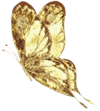
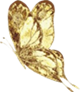
correções das imagens das borboletas e tamanho das imagens gerais

diff --git a/index.html b/index.html
@@ -35,9 +35,6 @@
       <div>
         <ul class="nav justify-content-center p-3">
           <li class="nav-item">
-            <a class="nav-link active" aria-current="page" href="#">Home</a>
-          </li>
-          <li class="nav-item">
             <a class="nav-link" href="#">Lista de Presentes</a>
           </li>
           <li class="nav-item">
@@ -47,7 +44,7 @@
             <a class="nav-link active" href="#">Confirme sua Presença</a>
           </li>
           <li class="nav-item">
-            <a class="nav-link active" href="#">Dress Code</a>
+            <a class="nav-link active" href="#dresscode">Dress Code</a>
           </li>
         </ul>
       </div>
@@ -70,54 +67,52 @@
         </p>
       </section>
 
-      <section class="m-3 mx-auto">
-        <div class="text-center m-3 d-flex flex-column mx-auto">
-          <div class="d-flex flex-row mx-auto">
+      <section>
+        <div
+          class="d-flex justify-content-center align-items-center text-center mb-5"
+        >
+          <h2>SOBRE O CASAL</h2>
+          <div class="ms-3">
             <img src="/assets/images/butterfly2.png" id="bf2" />
           </div>
-          <h2 class="mb-5">SOBRE O CASAL</h2>
-          <p class="mw-50 mx-auto">
-            Tudo começou em 2016, quando Edward e Nicoly se cruzaram por acaso
-            na internet. Em uma página de memes, Edward comentou algo engraçado,
-            e entre tantas reações, a de Nicoly se destacou. Ele a notou, sentiu
-            algo diferente, e não hesitou em enviar uma solicitação de amizade.
-            Ela aceitou, e assim começaram a conversar pelo Facebook, trocando
-            mensagens por seis meses até que, finalmente, marcaram de se
-            encontrar no shopping.<br />
-            <br />Semanas depois dos primeiros encontros, o relacionamento foi
-            oficializado em 04/09/2016. Desde então, eles têm compartilhado
-            muitas histórias, sonhos, planos e desafios. Entre os desafios,
-            estava a distância de 30 km que separava suas casas e as diferenças
-            de personalidade e temperamento. Mesmo assim, a lealdade,
-            cumplicidade e a admiração entre eles sempre prevaleceram.<br />
-            <br />Esses 9 anos juntos foram, sem dúvida, um período de
-            preparação e amadurecimento que Deus estabeleceu aos dois até o dia
-            dessa união, onde continuarão fazendo a boa e perfeita vontade dEle.
-          </p>
         </div>
+        <p class="mw-50 mx-auto">
+          Tudo começou em 2016, quando Edward e Nicoly se cruzaram por acaso na
+          internet. Em uma página de memes, Edward comentou algo engraçado, e
+          entre tantas reações, a de Nicoly se destacou. Ele a notou, sentiu
+          algo diferente, e não hesitou em enviar uma solicitação de amizade.
+          Ela aceitou, e assim começaram a conversar pelo Facebook, trocando
+          mensagens por seis meses até que, finalmente, marcaram de se encontrar
+          no shopping.<br />
+          <br />Semanas depois dos primeiros encontros, o relacionamento foi
+          oficializado em 04/09/2016. Desde então, eles têm compartilhado muitas
+          histórias, sonhos, planos e desafios. Entre os desafios, estava a
+          distância de 30 km que separava suas casas e as diferenças de
+          personalidade e temperamento. Mesmo assim, a lealdade, cumplicidade e
+          a admiração entre eles sempre prevaleceram.<br />
+          <br />Esses 9 anos juntos foram, sem dúvida, um período de preparação
+          e amadurecimento que Deus estabeleceu aos dois até o dia dessa união,
+          onde continuarão fazendo a boa e perfeita vontade dEle.
+        </p>
       </section>
 
       <section class="text-center m-3">
-        <div
-          id="carouselExampleAutoplaying"
-          class="carousel slide"
-          data-bs-ride="carousel"
-        >
+        <div id="carousel" class="carousel slide" data-bs-ride="carousel">
           <div class="carousel-inner">
             <div class="carousel-item active">
-              <img src="/assets/images/c1.jpg" class="img-fluid" alt="..." />
+              <img src="/assets/images/pic1.jpg" class="img-fluid" alt="..." />
             </div>
             <div class="carousel-item">
-              <img src="/assets/images/c2.jpg" class="img-fluid" alt="..." />
+              <img src="/assets/images/pic2.jpg" class="img-fluid" alt="..." />
             </div>
             <div class="carousel-item">
-              <img src="/assets/images/c3.jpg" class="img-fluid" alt="..." />
+              <img src="/assets/images/pic3.jpg" class="img-fluid" alt="..." />
             </div>
           </div>
           <button
             class="carousel-control-prev"
             type="button"
-            data-bs-target="#carouselExampleAutoplaying"
+            data-bs-target="#carousel"
             data-bs-slide="prev"
           >
             <span class="carousel-control-prev-icon" aria-hidden="true"></span>
@@ -126,7 +121,7 @@
           <button
             class="carousel-control-next"
             type="button"
-            data-bs-target="#carouselExampleAutoplaying"
+            data-bs-target="#carousel"
             data-bs-slide="next"
           >
             <span class="carousel-control-next-icon" aria-hidden="true"></span>
@@ -146,31 +141,39 @@
 
       <section class="text-center m-3 mb-5">
         <div>
-          <h2 class="mt-5 mb-5">DRESS CODE</h2>
+          <h2 class="mt-5 mb-5" id="dresscode">DRESS CODE</h2>
         </div>
         <div>
           <p class="mw-50 mx-auto">
-            Queremos que todos se sintam confortáveis e bonitos no nosso
-            grande dia! Para as mulheres, sugerimos:<br> Blusas ou vestidos
-            elegantes. (Vestido/saia no modelo midi) Calça ou shorts de tecido
-            leve e bem cortada, como pantalonas ou alfaiataria para um visual
-            elegante e confortável. Sandálias, sapatos fechados ou sapatilhas
-            são excelentes opções.<br> <b>Opcional</b>: Complemente o look com acessórios
-            que goste e que reflita seu estilo pessoal. <br><br>Homens: Calça social com
-            camisa. Sapatos sociais, sapatênis ou tênis casual. <br><b>Opcional</b>: Se
-            desejar, adicione um blazer para um toque extra de
-            sofisticação, especialmente se o clima permitir. Considere adicionar
-            um cinto que combine e uma gravata.
+            Queremos que todos se sintam confortáveis e bonitos no nosso grande
+            dia! Para as mulheres, sugerimos:<br />
+            Blusas ou vestidos elegantes. Vestido/saia no modelo midi (pode ser
+            macacão também, se preferir). Shorts ou calça de tecido leve, como
+            pantalonas, montaria ou alfaiataria para um visual elegante e
+            confortável. Sandálias, sapatos fechados ou sapatilhas são
+            excelentes opções.<br /><b>
+              Querida convidada, pedimos gentilmente que evite o uso de roupas
+              brancas para não coincidir com o vestido da noiva. Agradecemos
+              pela compreensão e esperamos celebrar este momento especial com
+              você!</b
+            >
+            <br /><br />Homens: Calça social com camisa. Sapatos sociais,
+            sapatênis ou tênis casual. <br /><b>Opcional</b>: Se desejar,
+            adicione um blazer para um toque extra de sofisticação,
+            especialmente se o clima permitir. Considere adicionar um cinto que
+            combine e uma gravata.
           </p>
         </div>
       </section>
 
-      <section id="location" class="text-center m-3">
+      <section class="text-center m-3">
         <div>
-          <h2 class="mb-5">DATA</h2>
+          <h2 class="mb-5" id="location">DATA</h2>
         </div>
         <div>
-          <p class="mb-5">A cerimônia será realizada no dia 25.10.2025 às 17:00</p>
+          <p class="mb-5">
+            A cerimônia será realizada no dia 25.10.2025 às 17:00
+          </p>
         </div>
       </section>
 
@@ -196,18 +199,19 @@
 
       <section class="text-center m-3">
         <div>
-          <h2 class="mb-5">A IGREJA</h2>
+          <h2  class="mb-5">A IGREJA</h2>
           <img
             src="/assets/images/igreja.png"
             class="img-fluid"
             alt="foto da igreja"
-          />
+            id="igreja"
+            />
         </div>
       </section>
       <footer class="d-flex flex-row p-3">
-        <p class="p-3 m-0">Desenvolvido por Edward Lacerda</p>
-        <p class="p-3 m-0">contato: (11) 99469-8998</p>
-        <p class="p-3 m-0">email: elacerda28@gmail.com</p>
+        <p class="p-3 m-0" >Desenvolvido por Edward Lacerda</p>
+        <p class="p-3 m-0" >contato: (11) 99469-8998</p>
+        <p class="p-3 m-0" >email: elacerda28@gmail.com</p>
       </footer>
     </main>
     <script

diff --git a/assets/styles/style.css b/assets/styles/style.css
@@ -1,5 +1,5 @@
 @import url("https://fonts.googleapis.com/css2?family=Arapey:ital@0;1&display=swap");
-@import url('https://fonts.googleapis.com/css2?family=Arapey:ital@0;1&family=EB+Garamond:ital,wght@0,400..800;1,400..800&display=swap');
+@import url("https://fonts.googleapis.com/css2?family=Arapey:ital@0;1&family=EB+Garamond:ital,wght@0,400..800;1,400..800&display=swap");
 
 .arapey-regular {
   font-family: "Arapey", serif;
@@ -27,9 +27,24 @@ h2 {
 
 .nav {
   font-family: "Arapey", serif;
-  color: black; /* Define a cor do texto como preta */
-  text-decoration: none; /* Remove o sublinhado */
+  color: black;
+  text-decoration: none;
   font-size: 24px;
+  z-index: 1; /*para o nav ficar acima da imagem*/
+  position: absolute;
+  top: 0;
+  left: 0;
+  width: 100%;
+  z-index: 1;
+}
+
+.nav-link {
+  color: inherit; 
+  text-decoration: none; 
+}
+
+.nav-link:hover {
+  color: #ffffff;
 }
 
 #titulo {
@@ -37,7 +52,7 @@ h2 {
   font-size: 60px;
 }
 
-p{
+p {
   font-family: "EB Garamond";
   font-style: italic;
   font-size: 20px;
@@ -46,38 +61,28 @@ p{
   background-image: linear-gradient(
       to bottom,
       rgb(255, 254, 234),
-      rgba(255, 255, 255, 0) 20%
+      rgba(255, 255, 255, 0) 30%
     ),
-    /* Degradê no topo */
-      linear-gradient(
-        to top,
-        rgb(255, 254, 234),
-        rgba(255, 255, 255, 0) 38%
-      ),
-    /* Degradê na parte inferior */ url("/assets/images/cover1.jpg");
+    linear-gradient(to top, rgb(255, 254, 234), rgba(255, 255, 255, 0) 38%),
+    url("/assets/images/cover1.jpg");
 
   background-size: cover;
   background-position: center;
-  height: 400px; /* altura */
+  height: 500px; 
   position: relative;
   display: flex;
-  align-items: center; /* Alinha o conteúdo verticalmente */
-  justify-content: center; /* Alinha o conteúdo horizontalmente */
-}
+  align-items: center; 
+  justify-content: center; 
 
-.nav {
-  z-index: 1; /* Para garantir que o nav fique acima da imagem */
-  position: absolute;
-  top: 0;
-  left: 0;
-  width: 100%;
-  z-index: 1;
+  max-width: 100%;
+  max-height: 500px;
+  object-fit: cover;
 }
 
 main {
   align-items: center;
-  
-  background-color:rgb(255, 254, 234)
+
+  background-color: rgb(255, 254, 234);
 }
 
 @media (min-width: 1200px) {
@@ -96,12 +101,28 @@ iframe {
   height: 350px; /* Padrão: altura */
 }
 
-#bf{
-  padding-left: 10px;
+#bf {
+  padding-left: 150px;
   padding-top: 20px;
-  margin-left: 130px;
+  margin-left: 5px;
 }
-#bf2{
- margin-left: 400px;
- padding-left: 20px;
+
+.carousel-inner img {
+  max-width: 100%; /* A largura máxima será 100% do contêiner */
+  max-height: 500px; /* Defina a altura máxima que desejar */
+  object-fit: cover; /* Mantém a proporção, cortando a imagem se necessário */
+}
+
+a {
+  color: black; 
+  text-decoration: none;
+}
+
+a:hover {
+  color: #000;
+}
+
+#igreja{
+  max-width: 100%;
+  max-height: 500px;
 }
